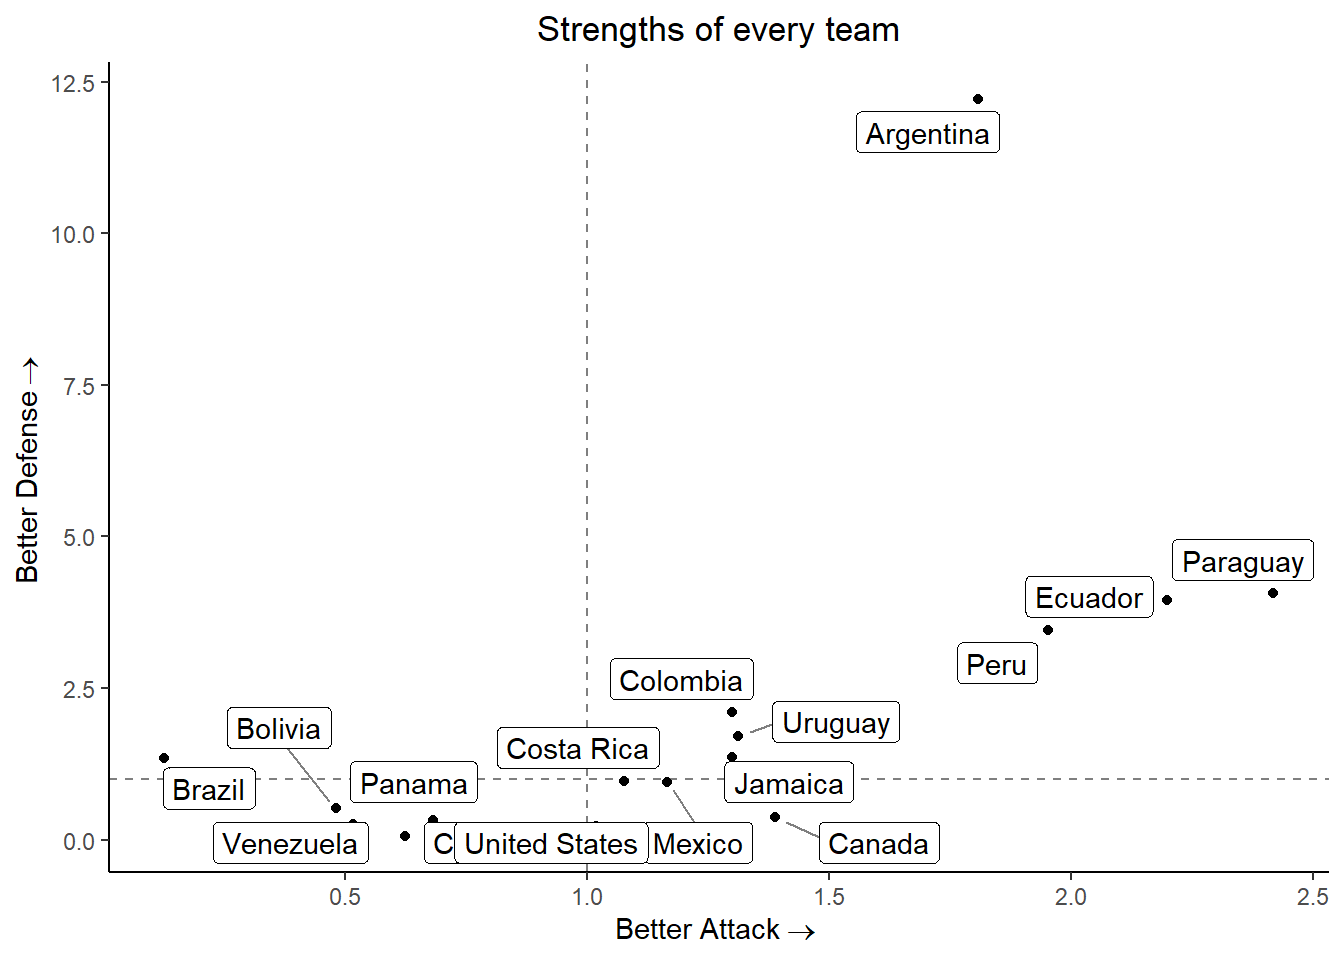
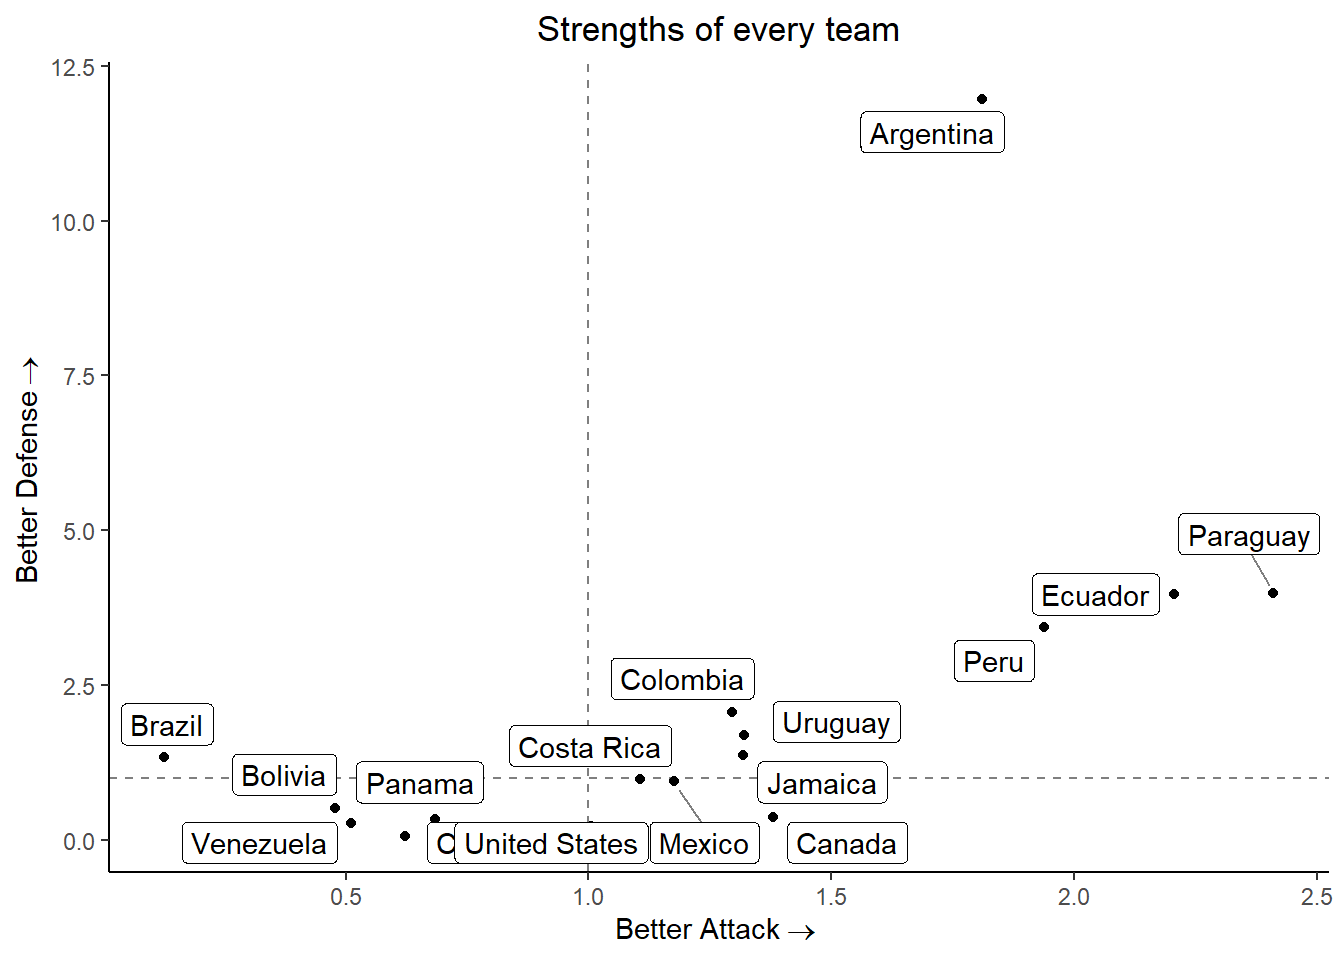
update predictions

diff --git a/docs/projects/copaamerica_2024.html b/docs/projects/copaamerica_2024.html
@@ -286,10 +286,10 @@ pre > code.sourceCode > span > a:first-child::before { text-decoration: underlin
 <span id="cb10-7"><a href="#cb10-7" aria-hidden="true" tabindex="-1"></a>  <span class="fu">select</span>(id, score, team, adversary, condition, <span class="at">date_game =</span> date.x, <span class="at">ranking_adv =</span> ranking, <span class="at">date_rank =</span> date.y)</span>
 <span id="cb10-8"><a href="#cb10-8" aria-hidden="true" tabindex="-1"></a></span>
 <span id="cb10-9"><a href="#cb10-9" aria-hidden="true" tabindex="-1"></a>train <span class="ot">&lt;-</span> total_scores <span class="sc">%&gt;%</span> </span>
-<span id="cb10-10"><a href="#cb10-10" aria-hidden="true" tabindex="-1"></a>  <span class="fu">filter</span>(date_game <span class="sc">&lt;=</span> <span class="fu">today</span>())</span>
+<span id="cb10-10"><a href="#cb10-10" aria-hidden="true" tabindex="-1"></a>  <span class="fu">filter</span>(date_game <span class="sc">&lt;</span> <span class="fu">today</span>())</span>
 <span id="cb10-11"><a href="#cb10-11" aria-hidden="true" tabindex="-1"></a></span>
 <span id="cb10-12"><a href="#cb10-12" aria-hidden="true" tabindex="-1"></a>test <span class="ot">&lt;-</span> total_scores <span class="sc">%&gt;%</span> </span>
-<span id="cb10-13"><a href="#cb10-13" aria-hidden="true" tabindex="-1"></a>  <span class="fu">filter</span>(date_game <span class="sc">&gt;</span> <span class="fu">today</span>())</span></code><button title="Copy to Clipboard" class="code-copy-button"><i class="bi"></i></button></pre></div>
+<span id="cb10-13"><a href="#cb10-13" aria-hidden="true" tabindex="-1"></a>  <span class="fu">filter</span>(date_game <span class="sc">&gt;=</span> <span class="fu">today</span>())</span></code><button title="Copy to Clipboard" class="code-copy-button"><i class="bi"></i></button></pre></div>
 </div>
 </section>
 <section id="fitting-the-model" class="level2">
@@ -359,25 +359,27 @@ pre > code.sourceCode > span > a:first-child::before { text-decoration: underlin
 <div class="sourceCode cell-code" id="cb15"><pre class="sourceCode r code-with-copy"><code class="sourceCode r"><span id="cb15-1"><a href="#cb15-1" aria-hidden="true" tabindex="-1"></a>test_pred <span class="sc">%&gt;%</span> </span>
 <span id="cb15-2"><a href="#cb15-2" aria-hidden="true" tabindex="-1"></a>  <span class="fu">print</span>(<span class="at">n =</span> <span class="fl">1e3</span>)</span></code><button title="Copy to Clipboard" class="code-copy-button"><i class="bi"></i></button></pre></div>
 <div class="cell-output cell-output-stdout">
-<pre><code># A tibble: 16 × 5
+<pre><code># A tibble: 18 × 5
       id `Team 1`      `Exp. Goals` `Team 2`      `Exp. Goals 2`
    &lt;int&gt; &lt;chr&gt;                &lt;dbl&gt; &lt;chr&gt;                  &lt;dbl&gt;
- 1    82 Canada               0.992 Peru                  0.215 
- 2    83 Argentina            1.12  Chile                 0.343 
- 3    84 Ecuador              2.01  Jamaica               0.707 
- 4    85 Mexico               0.580 Venezuela             1.70  
- 5    86 Panama               0.554 United States         2.43  
- 6    87 Bolivia              0.298 Uruguay               3.45  
- 7    88 Colombia             3.12  Costa Rica            0.293 
- 8    89 Brazil               1.29  Paraguay              0.420 
- 9    90 Argentina            1.19  Peru                  0.0524
-10    91 Canada               0.916 Chile                 1.45  
-11    92 Ecuador              1.40  Mexico                0.893 
-12    93 Jamaica              0.488 Venezuela             2.55  
-13    94 United States        0.738 Uruguay               1.95  
-14    95 Bolivia              0.978 Panama                0.988 
-15    96 Brazil               1.00  Colombia              1.72  
-16    97 Costa Rica           0.370 Paraguay              0.754 </code></pre>
+ 1    80 Colombia             1.40  Paraguay              0.254 
+ 2    81 Brazil               2.84  Costa Rica            0.435 
+ 3    82 Canada               0.967 Peru                  0.214 
+ 4    83 Argentina            1.14  Chile                 0.355 
+ 5    84 Ecuador              2.00  Jamaica               0.693 
+ 6    85 Mexico               0.580 Venezuela             1.71  
+ 7    86 Panama               0.550 United States         2.40  
+ 8    87 Bolivia              0.300 Uruguay               3.37  
+ 9    88 Colombia             3.15  Costa Rica            0.292 
+10    89 Brazil               1.29  Paraguay              0.406 
+11    90 Argentina            1.20  Peru                  0.0538
+12    91 Canada               0.916 Chile                 1.43  
+13    92 Ecuador              1.41  Mexico                0.868 
+14    93 Jamaica              0.471 Venezuela             2.52  
+15    94 United States        0.724 Uruguay               1.95  
+16    95 Bolivia              0.957 Panama                0.982 
+17    96 Brazil               1.00  Colombia              1.73  
+18    97 Costa Rica           0.365 Paraguay              0.760 </code></pre>
 </div>
 </div>
 

diff --git a/docs/index.html b/docs/index.html
@@ -2,7 +2,7 @@
 <html xmlns="http://www.w3.org/1999/xhtml" lang="en" xml:lang="en"><head>
 
 <meta charset="utf-8">
-<meta name="generator" content="quarto-1.4.553">
+<meta name="generator" content="quarto-1.5.41">
 
 <meta name="viewport" content="width=device-width, initial-scale=1.0, user-scalable=yes">
 
@@ -84,7 +84,7 @@ ul.task-list li input[type="checkbox"] {
     </a>
   </div>
             <div id="quarto-search" class="" title="Search"></div>
-          <button class="navbar-toggler" type="button" data-bs-toggle="collapse" data-bs-target="#navbarCollapse" aria-controls="navbarCollapse" aria-expanded="false" aria-label="Toggle navigation" onclick="if (window.quartoToggleHeadroom) { window.quartoToggleHeadroom(); }">
+          <button class="navbar-toggler" type="button" data-bs-toggle="collapse" data-bs-target="#navbarCollapse" aria-controls="navbarCollapse" role="menu" aria-expanded="false" aria-label="Toggle navigation" onclick="if (window.quartoToggleHeadroom) { window.quartoToggleHeadroom(); }">
   <span class="navbar-toggler-icon"></span>
 </button>
           <div class="collapse navbar-collapse" id="navbarCollapse">
@@ -111,7 +111,7 @@ ul.task-list li input[type="checkbox"] {
   </li>  
 </ul>
           </div> <!-- /navcollapse -->
-          <div class="quarto-navbar-tools">
+            <div class="quarto-navbar-tools">
   <a href="" class="quarto-color-scheme-toggle quarto-navigation-tool  px-1" onclick="window.quartoToggleColorScheme(); return false;" title="Toggle dark mode"><i class="bi"></i></a>
 </div>
       </div> <!-- /container-fluid -->
@@ -123,7 +123,7 @@ ul.task-list li input[type="checkbox"] {
 <!-- margin-sidebar -->
     
 <!-- main -->
-<div class="quarto-about-trestles content column-page">
+<div class="quarto-about-trestles column-page">
   <div class="about-entity">
     <img src="media/headshot.png" class="about-image
   round " style="height: 20em; width: 20em;">
@@ -378,18 +378,7 @@ window.document.addEventListener("DOMContentLoaded", function (event) {
     }
     return false;
   }
-  const clipboard = new window.ClipboardJS('.code-copy-button', {
-    text: function(trigger) {
-      const codeEl = trigger.previousElementSibling.cloneNode(true);
-      for (const childEl of codeEl.children) {
-        if (isCodeAnnotation(childEl)) {
-          childEl.remove();
-        }
-      }
-      return codeEl.innerText;
-    }
-  });
-  clipboard.on('success', function(e) {
+  const onCopySuccess = function(e) {
     // button target
     const button = e.trigger;
     // don't keep focus
@@ -421,7 +410,29 @@ window.document.addEventListener("DOMContentLoaded", function (event) {
     }, 1000);
     // clear code selection
     e.clearSelection();
+  }
+  const getTextToCopy = function(trigger) {
+      const codeEl = trigger.previousElementSibling.cloneNode(true);
+      for (const childEl of codeEl.children) {
+        if (isCodeAnnotation(childEl)) {
+          childEl.remove();
+        }
+      }
+      return codeEl.innerText;
+  }
+  const clipboard = new window.ClipboardJS('.code-copy-button:not([data-in-quarto-modal])', {
+    text: getTextToCopy
   });
+  clipboard.on('success', onCopySuccess);
+  if (window.document.getElementById('quarto-embedded-source-code-modal')) {
+    // For code content inside modals, clipBoardJS needs to be initialized with a container option
+    // TODO: Check when it could be a function (https://github.com/zenorocha/clipboard.js/issues/860)
+    const clipboardModal = new window.ClipboardJS('.code-copy-button[data-in-quarto-modal]', {
+      text: getTextToCopy,
+      container: window.document.getElementById('quarto-embedded-source-code-modal')
+    });
+    clipboardModal.on('success', onCopySuccess);
+  }
     var localhostRegex = new RegExp(/^(?:http|https):\/\/localhost\:?[0-9]*\//);
     var mailtoRegex = new RegExp(/^mailto:/);
       var filterRegex = new RegExp('/' + window.location.host + '/');
@@ -429,7 +440,7 @@ window.document.addEventListener("DOMContentLoaded", function (event) {
         return filterRegex.test(href) || localhostRegex.test(href) || mailtoRegex.test(href);
     }
     // Inspect non-navigation links and adorn them if external
- 	var links = window.document.querySelectorAll('a[href]:not(.nav-link):not(.navbar-brand):not(.toc-action):not(.sidebar-link):not(.sidebar-item-toggle):not(.pagination-link):not(.no-external):not([aria-hidden]):not(.dropdown-item):not(.quarto-navigation-tool)');
+ 	var links = window.document.querySelectorAll('a[href]:not(.nav-link):not(.navbar-brand):not(.toc-action):not(.sidebar-link):not(.sidebar-item-toggle):not(.pagination-link):not(.no-external):not([aria-hidden]):not(.dropdown-item):not(.quarto-navigation-tool):not(.about-link)');
     for (var i=0; i<links.length; i++) {
       const link = links[i];
       if (!isInternal(link.href)) {

diff --git a/docs/projects/euro_2024.html b/docs/projects/euro_2024.html
@@ -280,10 +280,10 @@ pre > code.sourceCode > span > a:first-child::before { text-decoration: underlin
 <span id="cb10-7"><a href="#cb10-7" aria-hidden="true" tabindex="-1"></a>  <span class="fu">select</span>(id, score, team, adversary, condition, <span class="at">date_game =</span> date.x, <span class="at">ranking_adv =</span> ranking, <span class="at">date_rank =</span> date.y)</span>
 <span id="cb10-8"><a href="#cb10-8" aria-hidden="true" tabindex="-1"></a></span>
 <span id="cb10-9"><a href="#cb10-9" aria-hidden="true" tabindex="-1"></a>train <span class="ot">&lt;-</span> total_scores <span class="sc">%&gt;%</span> </span>
-<span id="cb10-10"><a href="#cb10-10" aria-hidden="true" tabindex="-1"></a>  <span class="fu">filter</span>(date_game <span class="sc">&lt;=</span> <span class="fu">today</span>())</span>
+<span id="cb10-10"><a href="#cb10-10" aria-hidden="true" tabindex="-1"></a>  <span class="fu">filter</span>(date_game <span class="sc">&lt;</span> <span class="fu">today</span>())</span>
 <span id="cb10-11"><a href="#cb10-11" aria-hidden="true" tabindex="-1"></a></span>
 <span id="cb10-12"><a href="#cb10-12" aria-hidden="true" tabindex="-1"></a>test <span class="ot">&lt;-</span> total_scores <span class="sc">%&gt;%</span> </span>
-<span id="cb10-13"><a href="#cb10-13" aria-hidden="true" tabindex="-1"></a>  <span class="fu">filter</span>(date_game <span class="sc">&gt;</span> <span class="fu">today</span>())</span></code><button title="Copy to Clipboard" class="code-copy-button"><i class="bi"></i></button></pre></div>
+<span id="cb10-13"><a href="#cb10-13" aria-hidden="true" tabindex="-1"></a>  <span class="fu">filter</span>(date_game <span class="sc">&gt;=</span> <span class="fu">today</span>())</span></code><button title="Copy to Clipboard" class="code-copy-button"><i class="bi"></i></button></pre></div>
 </div>
 </section>
 <section id="fitting-the-model" class="level2">
@@ -352,17 +352,19 @@ pre > code.sourceCode > span > a:first-child::before { text-decoration: underlin
 <div class="sourceCode cell-code" id="cb15"><pre class="sourceCode r code-with-copy"><code class="sourceCode r"><span id="cb15-1"><a href="#cb15-1" aria-hidden="true" tabindex="-1"></a>test_pred <span class="sc">%&gt;%</span> </span>
 <span id="cb15-2"><a href="#cb15-2" aria-hidden="true" tabindex="-1"></a>  <span class="fu">print</span>(<span class="at">n =</span> <span class="fl">1e3</span>)</span></code><button title="Copy to Clipboard" class="code-copy-button"><i class="bi"></i></button></pre></div>
 <div class="cell-output cell-output-stdout">
-<pre><code># A tibble: 8 × 5
-     id `Team 1`       `Exp. Goals` `Team 2`    `Exp. Goals 2`
-  &lt;int&gt; &lt;chr&gt;                 &lt;dbl&gt; &lt;chr&gt;                &lt;dbl&gt;
-1    91 England               1.41  Slovenia             1.28 
-2    92 Denmark               0.985 Serbia               0.361
-3    93 Austria               3.51  Netherlands          0.981
-4    94 France                1.15  Poland               0.505
-5    95 Romania               1.79  Slovakia             0.581
-6    96 Belgium               2.10  Ukraine              0.603
-7    97 Georgia               0.813 Portugal             4.39 
-8    98 Czech Republic        0.908 Turkey               0.887</code></pre>
+<pre><code># A tibble: 10 × 5
+      id `Team 1`       `Exp. Goals` `Team 2`    `Exp. Goals 2`
+   &lt;int&gt; &lt;chr&gt;                 &lt;dbl&gt; &lt;chr&gt;                &lt;dbl&gt;
+ 1    89 Albania               0.784 Spain                1.14 
+ 2    90 Croatia               1.21  Italy                0.898
+ 3    91 England               1.43  Slovenia             1.24 
+ 4    92 Denmark               0.980 Serbia               0.377
+ 5    93 Austria               3.49  Netherlands          0.986
+ 6    94 France                1.15  Poland               0.508
+ 7    95 Romania               1.78  Slovakia             0.591
+ 8    96 Belgium               2.11  Ukraine              0.601
+ 9    97 Georgia               0.810 Portugal             4.49 
+10    98 Czech Republic        0.909 Turkey               0.860</code></pre>
 </div>
 </div>
 

diff --git a/docs/projects.html b/docs/projects.html
@@ -218,7 +218,7 @@ window.Quarto = {
 <h3 class="anchored" data-anchor-id="projects">Projects</h3>
 <div id="listing-sample-listings" class="quarto-listing quarto-listing-container-default">
 <div class="list quarto-listing-default">
-<div class="quarto-post image-right" data-index="0" data-listing-file-modified-sort="1719243143806" data-listing-reading-time-sort="4" data-listing-word-count-sort="718">
+<div class="quarto-post image-right" data-index="0" data-listing-file-modified-sort="1719244064519" data-listing-reading-time-sort="4" data-listing-word-count-sort="718">
 <div class="thumbnail">
 <p><a href="./projects/copaamerica_2024.html" class="no-external"></a></p><a href="./projects/copaamerica_2024.html" class="no-external">
 <p class="card-img-top"><img src="projects\copaamerica_2024_files\figure-html\unnamed-chunk-12-1.png"  class="thumbnail-image card-img"/></p>
@@ -240,7 +240,7 @@ window.Quarto = {
 </a>
 </div>
 </div>
-<div class="quarto-post image-right" data-index="1" data-listing-file-modified-sort="1719243143810" data-listing-reading-time-sort="4" data-listing-word-count-sort="695">
+<div class="quarto-post image-right" data-index="1" data-listing-file-modified-sort="1719244147473" data-listing-reading-time-sort="4" data-listing-word-count-sort="695">
 <div class="thumbnail">
 <p><a href="./projects/euro_2024.html" class="no-external"></a></p><a href="./projects/euro_2024.html" class="no-external">
 <p class="card-img-top"><img src="projects\euro_2024_files\figure-html\unnamed-chunk-12-1.png"  class="thumbnail-image card-img"/></p>
